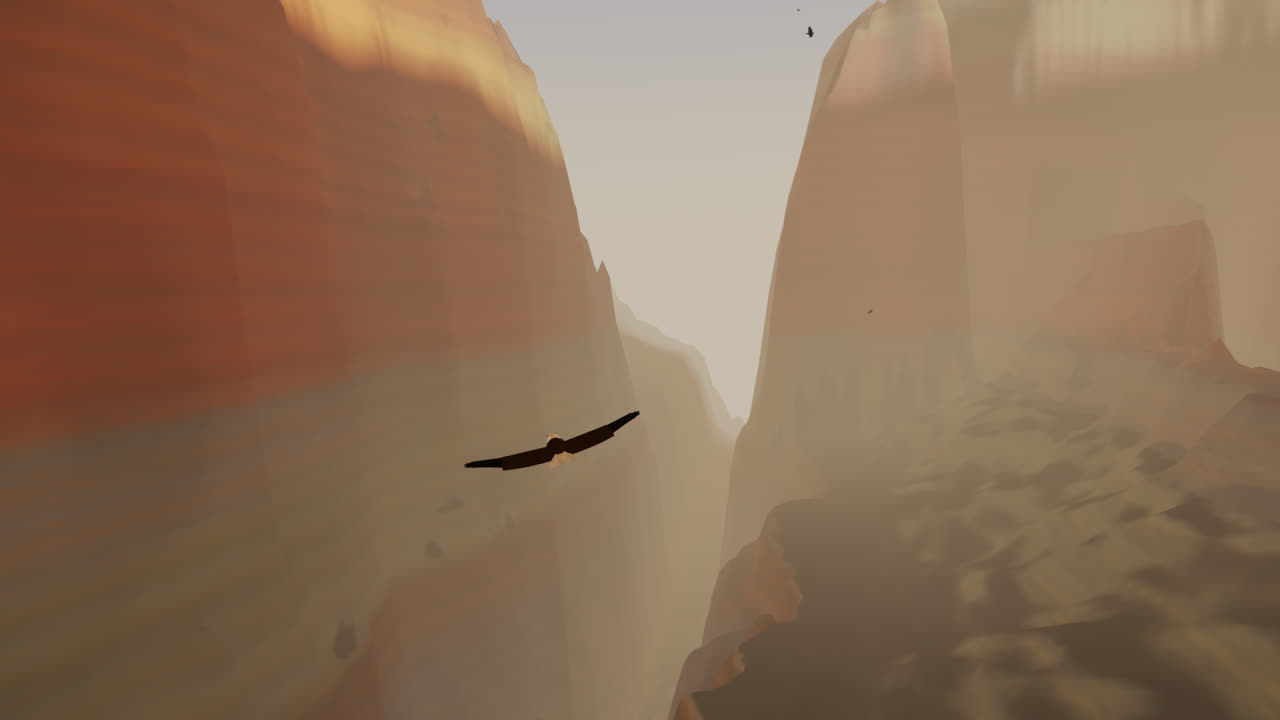
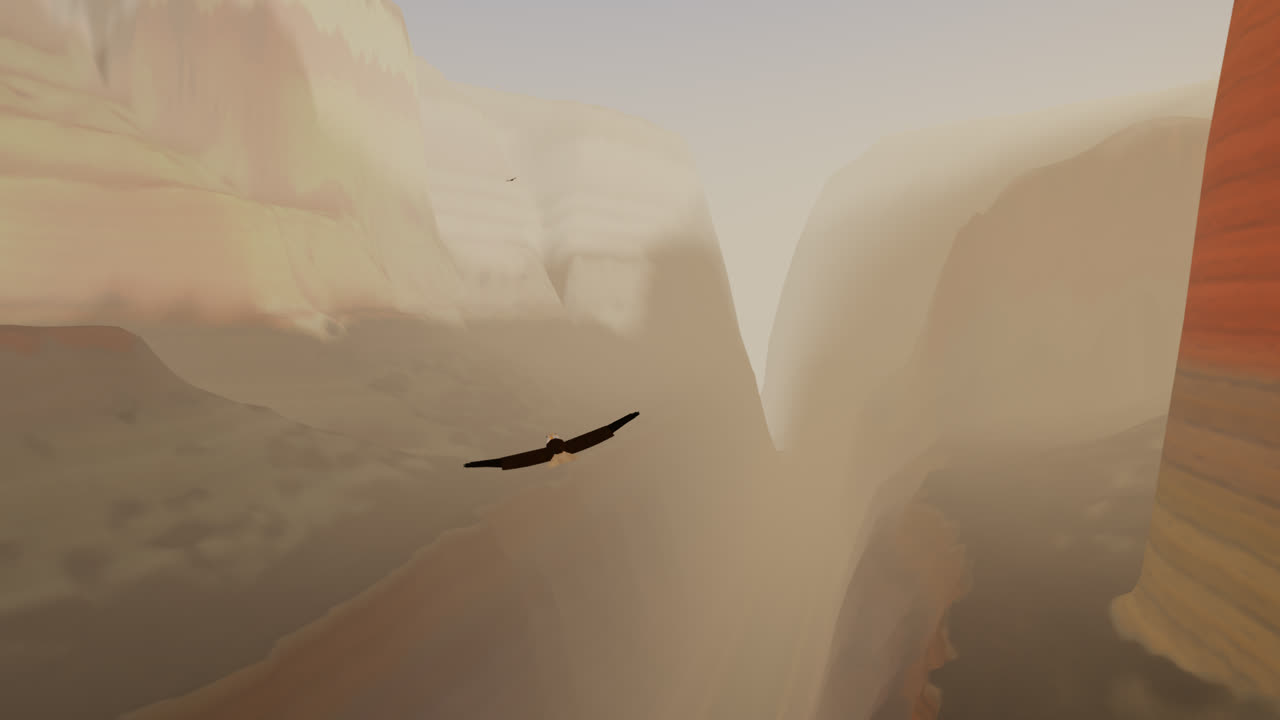
Run 2: RESULTS (predictions against measurements, six critic rounds), bench log, README places, AI register, Ari's page with region stills and the re-rate question (answers/eagle-2)

diff --git a/page/index.html b/page/index.html
@@ -101,7 +101,11 @@ summary { cursor: pointer; font-family: var(--display); font-size: 22px; font-we
     <div class="scroll"><table>
 <thead><tr><th>#</th><th>Prediction</th><th>Measured</th><th>Result</th></tr></thead>
 <tbody>
-<!--R2ROWS-->
+<tr><td>R1</td><td>After five minutes you rate "keep flying" 4 or more</td><td>Your answer above</td><td>Open</td></tr>
+<tr><td>R2</td><td>Full 1080p at 600 m haze, through the new places: 60 fps, GPU 12 ms or less, no frame over 25 ms</td><td>60 fps; GPU 10.8 ms on average (it was 8.3 before the new places); worst frame 19.5 ms</td><td class="pass">Pass</td></tr>
+<tr><td>R3</td><td>The file stays 300 KB or less</td><td>72 KB (29 KB zipped)</td><td class="pass">Pass</td></tr>
+<tr><td>R4</td><td>Four times the map for at most 2.5 times the memory, menu within 5 s</td><td>1.5 times the memory; the menu appears after 2.2 s</td><td class="pass">Pass</td></tr>
+<tr><td>R5</td><td>An image reviewer finds nothing worse than "minor"</td><td>After six rounds, nothing broken, but 11 "moderate" flaws left (gorge walls too brown, stretched texture on some cliffs, a few others). They are the next run's first job</td><td class="fail">Miss</td></tr>
 </tbody></table></div>
   </section>
 

diff --git a/RESULTS.md b/RESULTS.md
@@ -97,8 +97,99 @@ Chrome's GPU process uses 346 MB (peak 488 MB).
 
 | # | Prediction | Measured | Result |
 |---|---|---|---|
-| R1 | Ari, after 5 minutes: "keep flying" 4/5 or more | | |
-| R2 | Full 1080p, Medium, haze 600 m, fly-through through the new places: ≥ 60 fps average, GPU ≤ 12 ms average, no frame over 25 ms | | |
-| R3 | `index.html` ≤ 300 KB (expected about 80 KB) | | |
-| R4 | The 8 km world costs at most 2.5 times the memory: test Chrome GPU process ≤ 850 MB, menu ≤ 5 s after load | | |
-| R5 | Visual critic, final round: nothing above minor | | |
+| R1 | Ari, after 5 minutes: "keep flying" 4/5 or more | Waiting for Ari: the question is on his page, saved to `answers/eagle-2` | Open |
+| R2 | Full 1080p, Medium, haze 600 m, fly-through through the new places: ≥ 60 fps average, GPU ≤ 12 ms average, no frame over 25 ms | 59.9 fps; GPU 10.81 ms average (p99 17.29, max 19.77); frame max 19.5 ms, 0 frames over 25 ms | **Pass** |
+| R3 | `index.html` ≤ 300 KB (expected about 80 KB) | 72.1 KB (28.8 KB gzipped) | **Pass** |
+| R4 | The 8 km world costs at most 2.5 times the memory: test Chrome GPU process ≤ 850 MB, menu ≤ 5 s after load | GPU process 519 MB (peak 648 MB) in a fresh test Chrome, 1.5 times the baseline; menu 2.2 s after load (3 reloads: 2.32, 2.17, 2.24 s) | **Pass** |
+| R5 | Visual critic, final round: nothing above minor | Highest severity **moderate** after six rounds (no major or critical); 11 moderate items left, listed below | **Miss** |
+
+Raw log: `results/bench-run2-2026-11-16.txt`. Same conditions as run 1: Unity not running, one copy of the game, but Ari's
+own Chrome open (about 900 MB) and a load average of about 3.7. The benchmark path now starts in the classic canyon,
+runs the narrows, passes under the stone bridge and climbs into the basin.
+
+**Notes on R2.** GPU time rose from 8.3 ms (run 1, haze 600 m) to 10.8 ms. The cost is per-pixel shading (region lookup,
+smoother far normals, the far-water check), not the bigger world. Haze distance is still a weak lever: 250 m saves
+0.7 ms. The slowest 1% of GPU frames (17.3 ms) is now over a 60 Hz frame. Frames still arrived on time in the run, but
+there is less headroom than in run 1, and the next feature should be timed before it is kept. The 720p kill-line run:
+60 fps, GPU 7.5 ms.
+
+**Notes on R4.** The heights doubled in each direction (4096² over 8 km, still 2 m per texel). Kept down by baking sun
+and sky at half resolution and putting normals in their own small texture with mips. Generation runs in four GPU strips
+so no single job runs long.
+
+## What was built
+
+Two rivers now run north to south through 8 km, each through a chain of regions that blend over 350 m:
+
+- **Classic** (run 1's canyon): spurs, buttes, side canyons.
+- **The narrows:** a slot of smooth orange sandstone, 330 m deep, about 15 m of river.
+- **The basin:** 2.5 km across, tiered temples, clearer air while you're in it.
+- **The gorge:** a squeezed inner gorge of grey-violet schist, with rapids, standing waves and boulders.
+
+River A runs classic, narrows, basin, gorge, classic; river B runs the same kinds in another order.
+
+Two landmarks on river A:
+- **The stone bridge**, a rock arch where the narrows open, which you can fly under or over (with collision).
+- **The waterfall**, dropping from a hanging side canyon of blue-green travertine pools, with spray at its foot.
+
+The plateau east of river A rises 110 m (the rock layers stretch to match) and carries **ponderosa pine forest** with
+meadows: 41,000 pines on Medium, a new mesh.
+
+Also: eight viewpoints (keys 1–8), a chase camera that no longer pops over the rim from inside the slot, and river
+channels that never run dry (a check in `dev.html`, `EC.dry()`: 0 of 512 samples dry on river B, 1 on river A).
+
+### Fixes for the run 1 critic's open items
+
+- **Stretched texture on steep faces:** steep and far ground now reads a smoother normal from the normal mips. Better,
+  but it is still the most common remaining complaint.
+- **Saw-tooth edges:** each terrain cell splits along the diagonal that follows the rock; far shadow edges soften with
+  distance. Remaining: small steps on some slot rims.
+- **Near-black inner-gorge walls:** bounce light now comes from the sunlit walls across the canyon. The darkest wall
+  measured about RGB 40/32/33, "readable" in every round from 3 on.
+- **Speckled slope:** soil and rock colour now come from the smooth normal, not the bumped one.
+- **Sky banding:** a stronger triangular dither. No banding found in any of the six rounds.
+
+### Bugs found while verifying
+
+- An isolated-pinnacle pass after generation.
+- The far river drawn from the full-resolution heights. In the basin the river had shown as a stepped dashed line.
+  There were two causes: the wall noise had lifted parts of the bed above the water, and the coarse mesh can't hold a
+  narrow channel.
+- The noise hash was nearly symmetric in x and y, which mirrored every noise field about the world's diagonal and left
+  a crease along it.
+- Tree shadows smeared down steep walls.
+
+## Visual critic, run 2
+
+Six rounds. Each round was a fresh subagent that saw only the eight viewpoint stills (1920×1080, haze 600 m) and 14
+frames of a 7 s clip, never the code. From round 3 on, the brief defined the severities ("major" = a player would notice
+within seconds and find it wrong or broken), because the first rounds used them loosely.
+
+| Round | Highest | What it said, in short | Done after it |
+|---|---|---|---|
+| 1 | Major | Slot, gorge, bridge and waterfall views all looked like the same two brown walls; the basin dissolved in haze; spikes in the slot (they were boulders); cream "snowy" tops; the clip never reached the bridge | A colour and rock style per region, clearer basin air, domed boulders, warmer tops, stronger bounce light, rapids |
+| 2 | Major | The clip missed the bridge (it sat above the frame); basin temples read as spikes; saw-tooth shadow edges far away | Path and clip through the bridge, tiered temples, softer far shadows, waterfall spray, new viewpoints |
+| 3 | **Moderate** | All eight places read and differ; the clip shows slot, bridge, open canyon. Left: weak classic view, shadow speckle under the bridge, stepped basin river, gorge too brown, card-like spray | Normal mips (also fixed the GPU budget), bridge shadow, cooler schist, viewpoints |
+| 4 | Major | One major: the basin river drawn as a staircase | Far water from the full-resolution heights, pinnacle pass |
+| 5 | Major | The same staircase line | Traced to the noise hash's mirror seam and dry river stretches; fixed both |
+| 6 (final) | **Moderate** | Nothing broken. All eight places read; the clip changes place clearly | See below |
+
+Open items from round 6, all moderate:
+
+- The gorge walls are still dark maroon rather than grey schist.
+- Stretched or chevron texture on some steep faces (views 4 and 8).
+- A hard light edge on one end of the bridge.
+- Vertical stripes on the slot walls, which want flowing sandstone bands.
+- Dark smears on a bench face after the bridge.
+- A curb-like line along the rim edge in view 7.
+- Basin temples still too peaked.
+- The classic view's mid wall lost in haze.
+- A canal-straight gorge river.
+- Dither stipple on the waterfall spray.
+
+Minor: a stepped far line in the basin, the flat cut the waterfall leaves from, rust-red sunlit pine tops, ground
+mottle, rim steps, the eagle's wingtips edge-on.
+
+**Not met:** the gate was "nothing above minor". It reached moderate (from major) and stopped there. The open items
+above are the next run's first job. The critics' severities also drifted between rounds (the same river was moderate
+in round 3 and major in round 4), so one more round would not have proven much without the changes.
